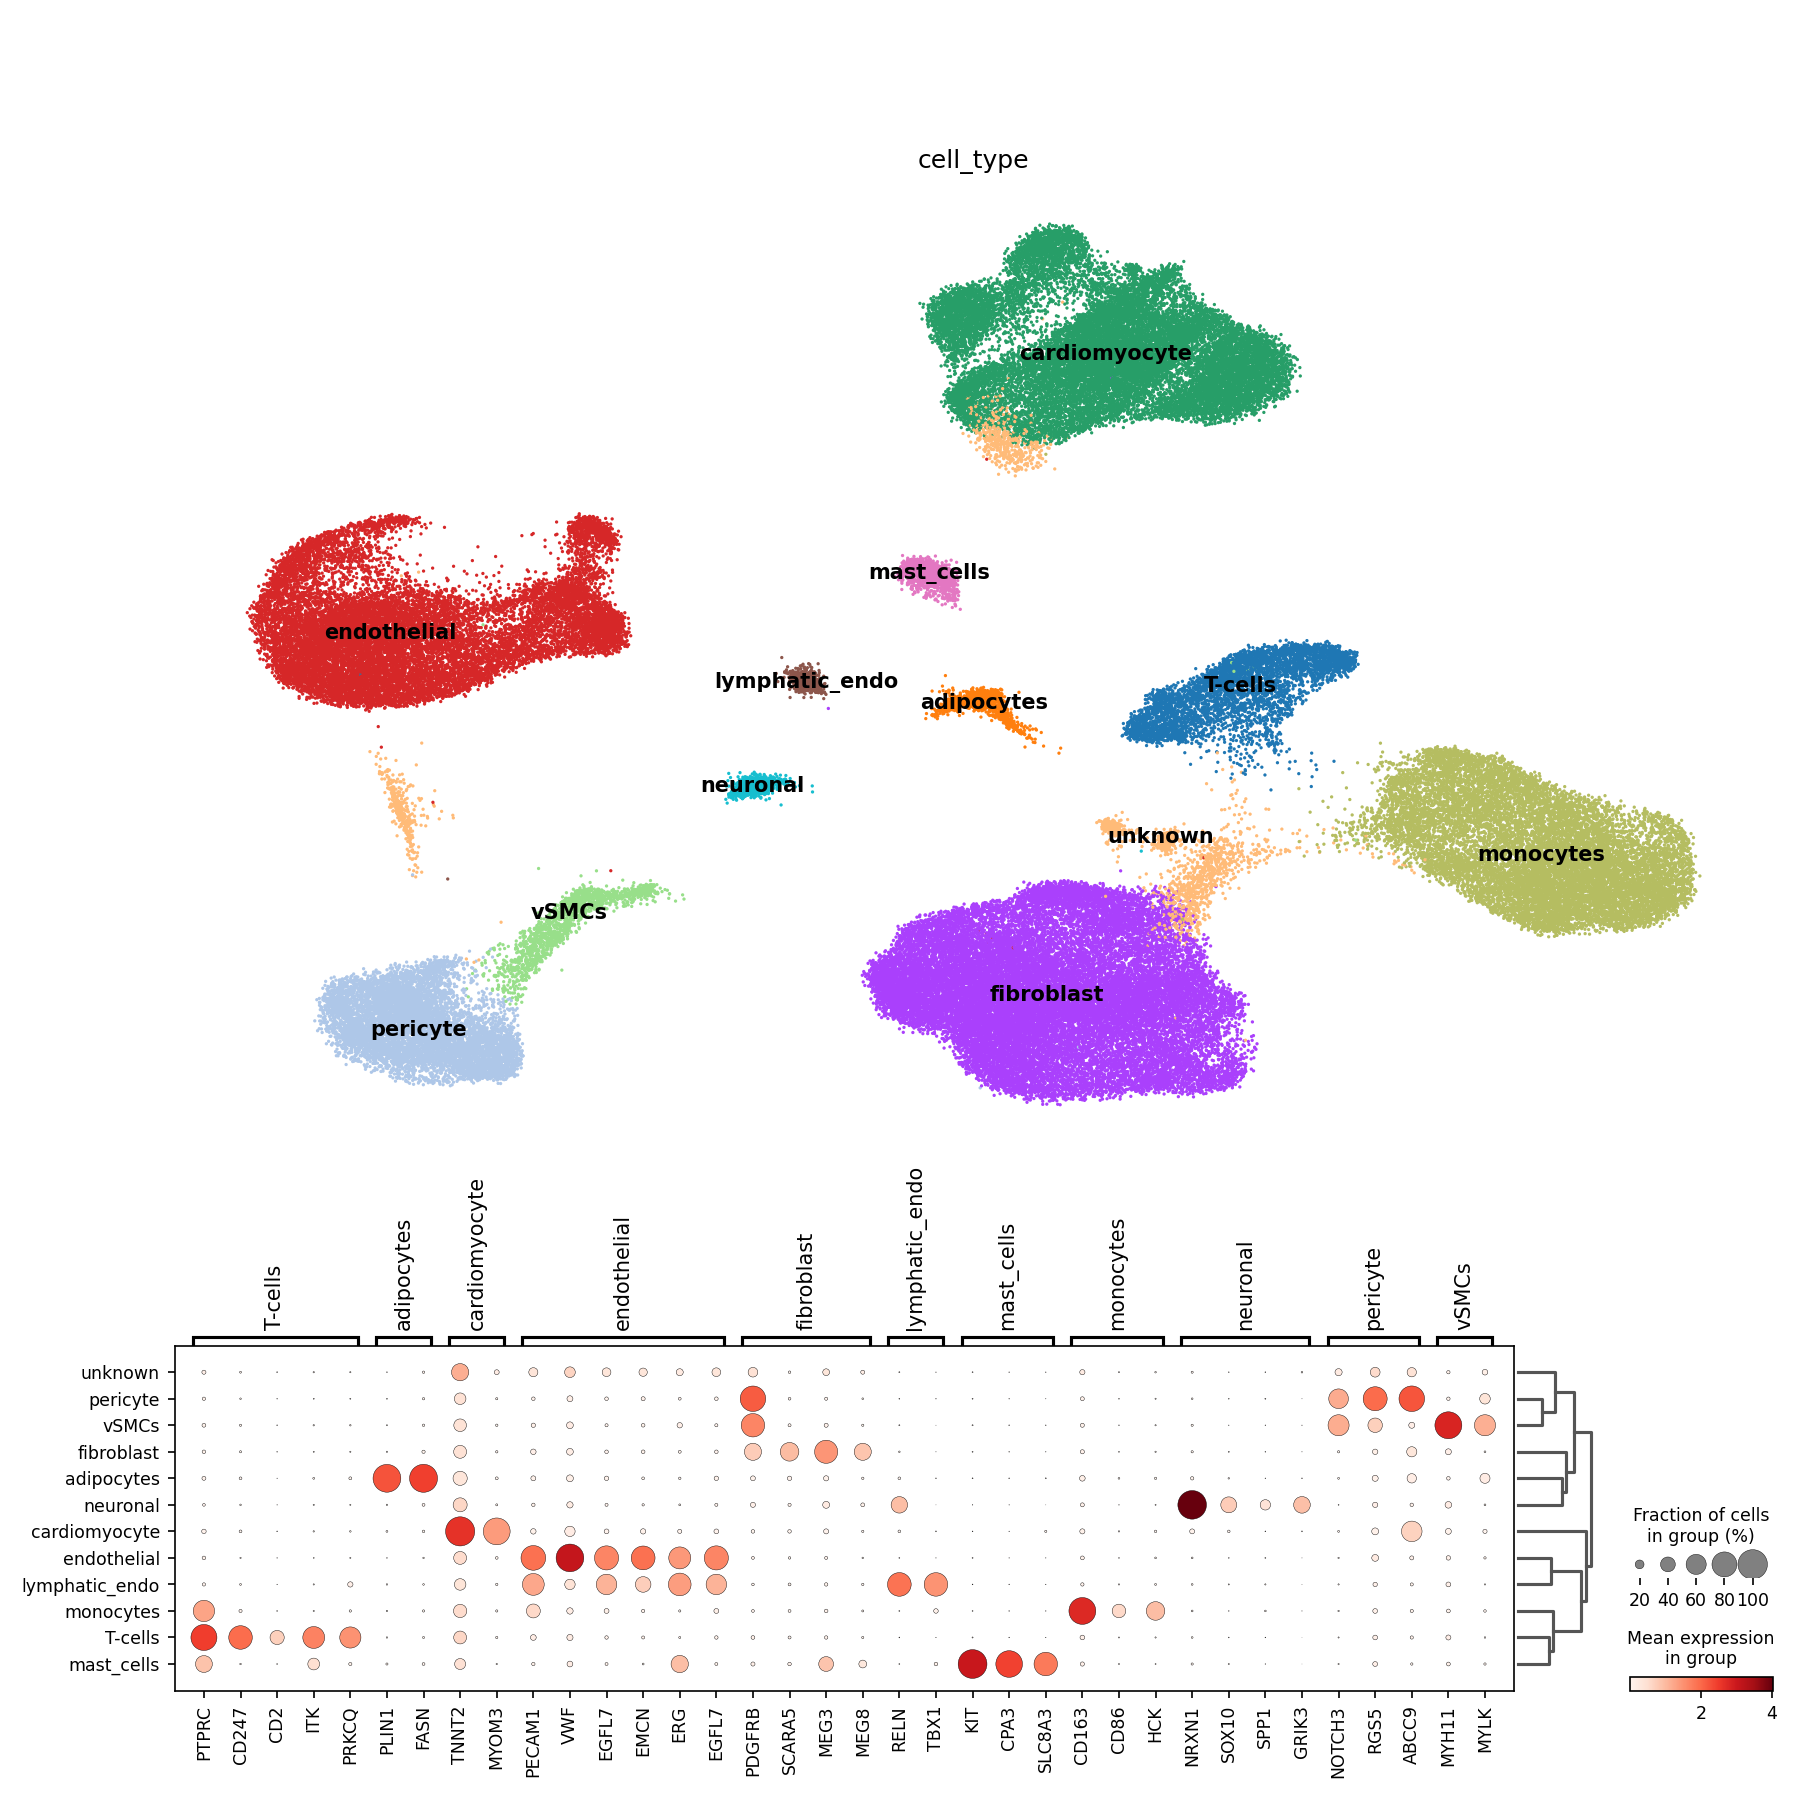
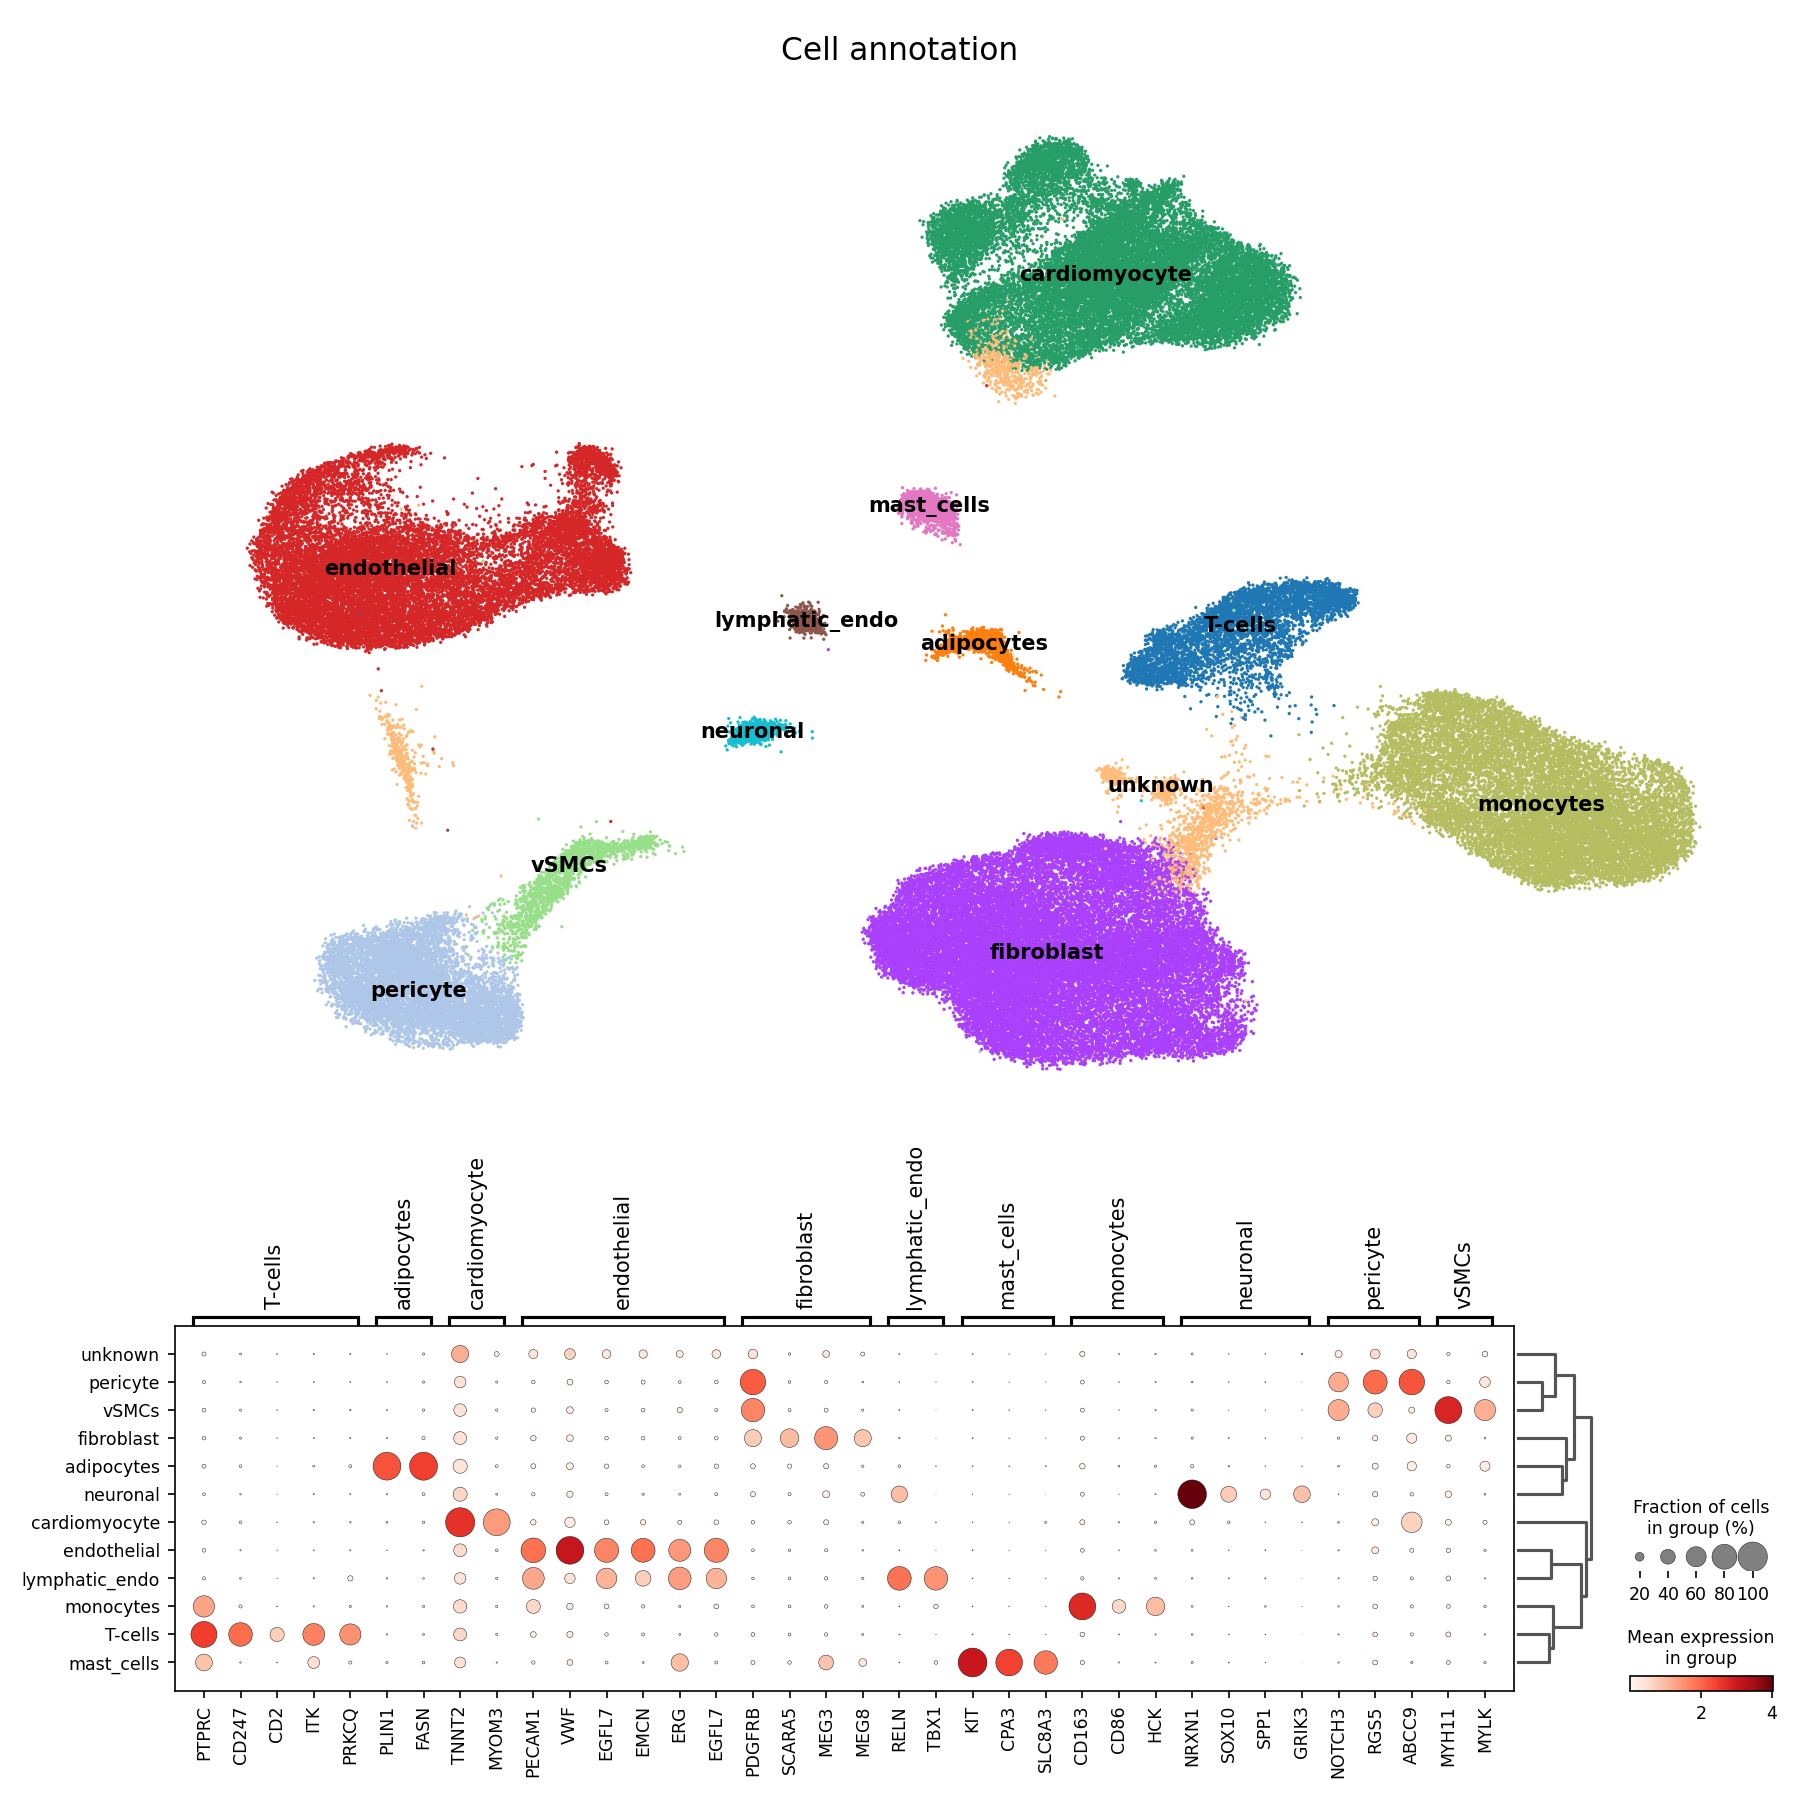
Added pseudobulk, JSD and angular distances

diff --git a/scripts/run_jsdd.py b/scripts/run_jsdd.py
@@ -1,0 +1,89 @@
+import scanpy as sc
+import numpy as np
+import pandas as pd
+
+import pickle
+import os
+
+from sklearn.manifold import MDS
+
+from scipy.spatial.distance import jensenshannon
+
+
+
+# Read AnnData object
+input_path = '../qc_data/pseudobulk.h5ad'
+adata = sc.read_h5ad(input_path)
+
+# Get list samples and cell types
+samples_ids = np.unique(adata.obs['sample_id'])
+conditions = [adata.obs.condition[adata.obs['sample_id'] == sample_id].tolist()[0] for sample_id in samples_ids]
+cell_types = np.unique(adata.obs['cell_type'])
+
+
+t_jsd_ds = []
+t_props = []
+t_coords = []
+
+for cell_type in cell_types:
+    # Subset by cell type
+    sub_adata = adata[adata.obs['cell_type'] == cell_type]
+    
+    # Init JSDD matrix and props
+    jsd_ds = []
+    props = []
+    
+    # Compute JDDS for all combinations
+    for sample_a in samples_ids:
+        for sample_b in samples_ids:
+            msk_a = np.array(sub_adata.obs['sample_id'] == sample_a)
+            msk_b = np.array(sub_adata.obs['sample_id'] == sample_b)
+            
+            # If one of the samples has no cells skip
+            if np.sum(msk_a) == 0 or np.sum(msk_b) == 0:
+                jsd_d = np.nan
+                w = 0
+            else:
+                x_a = sub_adata.X[msk_a].toarray()[0]
+                x_b = sub_adata.X[msk_b].toarray()[0]
+                
+                # Get min proportion
+                w_a = sub_adata.obs['cell_prop'][msk_a]
+                w_b = sub_adata.obs['cell_prop'][msk_b]
+                w = np.min([w_a, w_b])
+                
+                # Compute JSDD and normalize by min prop
+                jsd_d = jensenshannon(x_a, x_b)
+                
+            # Store result
+            jsd_ds.append(jsd_d)
+            props.append(w)
+    
+    # Reshape to matrix and store
+    jsd_ds = np.array(jsd_ds).reshape(len(samples_ids), len(samples_ids))
+    props = np.array(props).reshape(len(samples_ids), len(samples_ids))
+    t_jsd_ds.append(jsd_ds)
+    t_props.append(props)
+    
+    # Compute MDS coordinates of non nans and store
+    msk = ~np.isnan(np.diag(jsd_ds))
+    coords = np.full((len(samples_ids),2), np.nan)
+    coords[msk] = MDS(dissimilarity='precomputed', random_state=0).fit_transform(jsd_ds[msk,][:,msk])    
+    t_coords.append(coords)
+
+# Compute final JSDD for all cell types
+all_jsd_ds = np.sum(np.nan_to_num(t_jsd_ds)*t_props, axis=0)
+all_coords = MDS(dissimilarity='precomputed', random_state=0).fit_transform(all_jsd_ds)
+
+# Store results in a dict
+plot_data = {
+    'samples_ids' : np.array(samples_ids),
+    'conditions' : np.array(conditions),
+    'cell_types' : np.hstack(['All', cell_types]),
+    'jsds' : [all_jsd_ds] + t_jsd_ds,
+    'coords' : [all_coords] + t_coords
+}
+
+# Save results
+os.makedirs('../plot_data/jsd/', exist_ok=True)
+pickle.dump(plot_data, open('../plot_data/jsd/plot_data.pkl', "wb"))

diff --git a/scripts/run_angdist.py b/scripts/run_angdist.py
@@ -1,0 +1,66 @@
+import scanpy as sc
+import numpy as np
+import pandas as pd
+
+import os
+import pickle
+
+
+def cos_sim(a,b):
+    return np.min([np.dot(a,b)/(np.linalg.norm(a)*np.linalg.norm(b)),1])
+
+def ang_dis(a,b):
+    return np.arccos(cos_sim(a,b)) / np.pi
+
+def get_group_sum_dis(sub_adata):
+    # Compute all cumulative distances in an AnnData object
+    cum_dis = 0
+    for i,row_a in enumerate(sub_adata.X.toarray()):
+        for j, row_b in enumerate(sub_adata.X.toarray()):
+            if j < i:
+                # Compute angular distance
+                dis = ang_dis(row_a,row_b)
+                cum_dis += dis
+    return cum_dis
+
+# Read AnnData object
+input_path = '../qc_data/pseudobulk.h5ad'
+adata = sc.read_h5ad(input_path)
+sc.pp.normalize_total(adata, target_sum=1e4)
+sc.pp.log1p(adata)
+
+conditions = np.unique(adata.obs['condition'])
+cell_types = np.unique(adata.obs['cell_type'])
+
+plot_data = dict()
+
+for i,cond_a in enumerate(conditions):
+    for j,cond_b in enumerate(conditions):
+        if i < j:
+            col_cell_types = []
+            col_dists = []
+            for cell_type in cell_types:
+                # Get a subset per condition and cell type
+                adata_a = adata[(adata.obs['condition']==cond_a)&(adata.obs['cell_type']==cell_type)]
+                adata_b = adata[(adata.obs['condition']==cond_b)&(adata.obs['cell_type']==cell_type)]
+                #  Compute mean within groups as norm factor
+                norm = (get_group_sum_dis(adata_a) + get_group_sum_dis(adata_b)) / \
+                (adata_a.shape[0] + adata_b.shape[0])
+                if norm == 0.0:
+                    norm = 1
+                # Compute all possible interactions
+                for row_a in adata_a.X.toarray():
+                        for row_b in adata_b.X.toarray():
+                            # Compute angular distance
+                            dis = ang_dis(row_a,row_b)/norm
+                            col_dists.append(dis)
+                            col_cell_types.append(cell_type)
+            # Save to dict
+            df = pd.DataFrame()
+            df['cell_type'] = col_cell_types
+            df['dists'] = col_dists
+            plot_data['{0}.vs.{1}'.format(cond_a,cond_b)] = df
+
+# Save to file
+os.makedirs('../plot_data/angdist/', exist_ok=True)
+pickle.dump(plot_data, open('../plot_data/angdist/plot_data.pkl', "wb"))

diff --git a/scripts/run_angdist_plots.py b/scripts/run_angdist_plots.py
@@ -1,0 +1,31 @@
+import pandas as pd
+import numpy as np
+
+import pickle
+
+import matplotlib.pyplot as plt
+import seaborn as sns
+
+plot_data = pickle.load(open("../plot_data/angdist/plot_data.pkl", "rb"))
+
+fig, axes = plt.subplots(2,3, figsize=(12,9), sharey=True, dpi=150)
+fig.suptitle('Transcriptomical shifts', fontsize=15)
+axes = axes.flatten()
+i = 0
+for k,df in plot_data.items():
+    ax = axes[i]
+    order = df.groupby('cell_type').median().sort_values('dists', ascending=False).index
+    sns.boxplot(data=df, x='cell_type', y='dists', ax=ax, order=order, palette='coolwarm_r',linewidth=0.5)
+    ax.axhline(1, ls='--', c='black')
+    ax.set_xticklabels(ax.get_xticklabels(),rotation=90)
+    ax.set_title(k, fontsize=11)
+    ax.set_xlabel('')
+    ax.set_ylabel('')
+    i +=1
+
+fig.subplots_adjust(right=0.9)
+fig.tight_layout()
+fig.set_facecolor('white')
+
+# Save
+fig.savefig('../plots/angdist.png')

diff --git a/scripts/run_annot_plots.py b/scripts/run_annot_plots.py
@@ -22,17 +22,18 @@ for ctype in np.unique(markers.Type):
 
 # Plot cell type annotation
 fig = plt.figure(figsize=(12,12), dpi=150)
+fig.suptitle('Cell annotation', fontsize=15)
 gs = fig.add_gridspec(3,2)
 
 ax = fig.add_subplot(gs[0:2,:])
 sc.pl.umap(adata, color='cell_type', ax=ax, show=False, 
-           return_fig=False, frameon=False, legend_loc='on data', size=10)
+           return_fig=False, frameon=False, legend_loc='on data', size=10, title="")
 
 ax = fig.add_subplot(gs[2,:])
 sc.pl.dotplot(adata, marker_genes_dict, 'cell_type', dendrogram=True, ax=ax, show=False, return_fig=False)
 
 fig.tight_layout()
-fig.subplots_adjust(top=0.9)
+fig.subplots_adjust(top=0.95)
 fig.set_facecolor('white')
 
 # Save

diff --git a/scripts/run_pseudobulk.py b/scripts/run_pseudobulk.py
@@ -68,9 +68,5 @@ pb_adata.obs['cell_num'] = col_cell_num
 pb_adata.obs['cell_prop'] = col_cell_prop
 pb_adata.var.index = ann_adata.raw.var.index
 
-# Normalize and log transform
-sc.pp.normalize_total(pb_adata, target_sum=1e4)
-sc.pp.log1p(pb_adata)
-
 # Write to file
 pb_adata.write('../qc_data/pseudobulk.h5ad')
